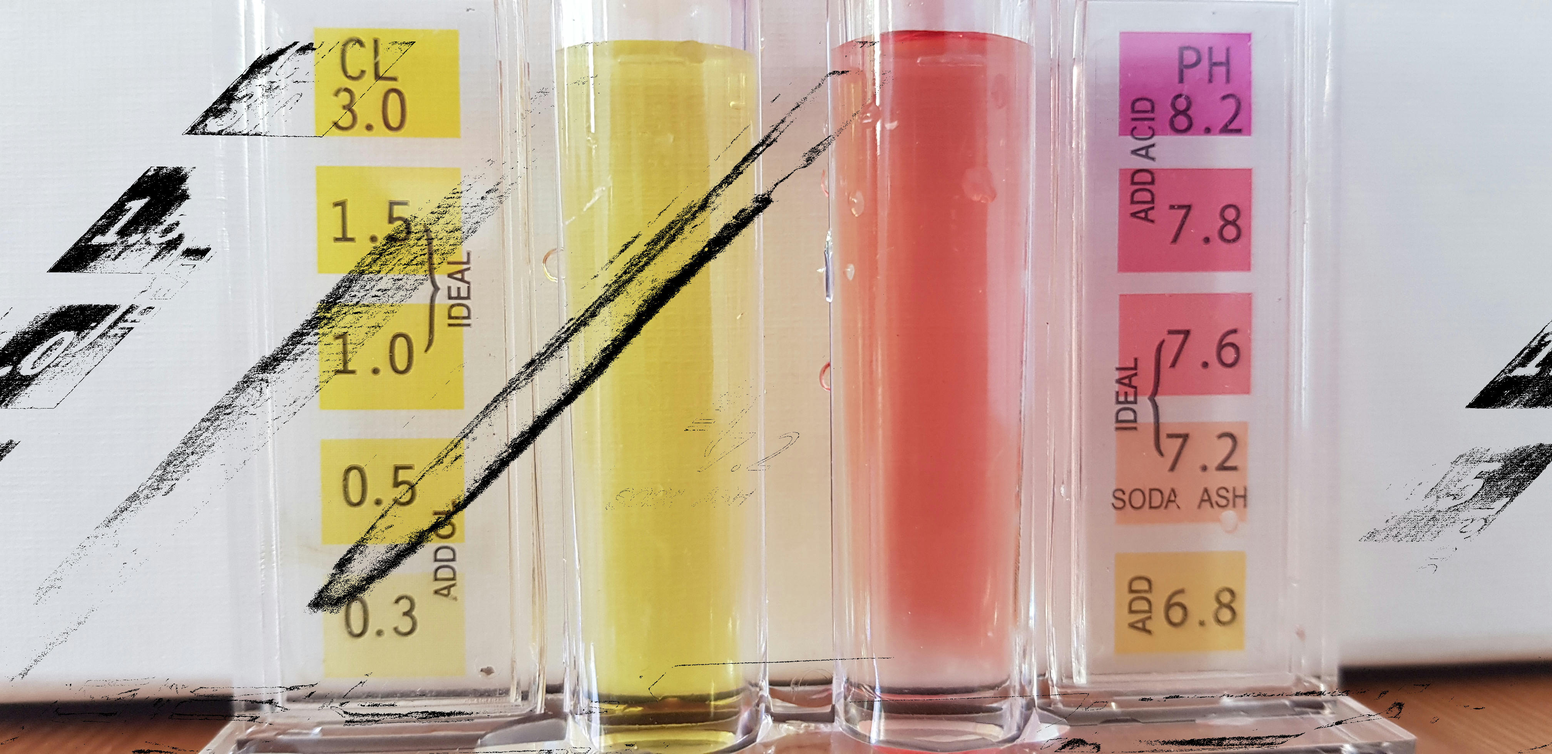
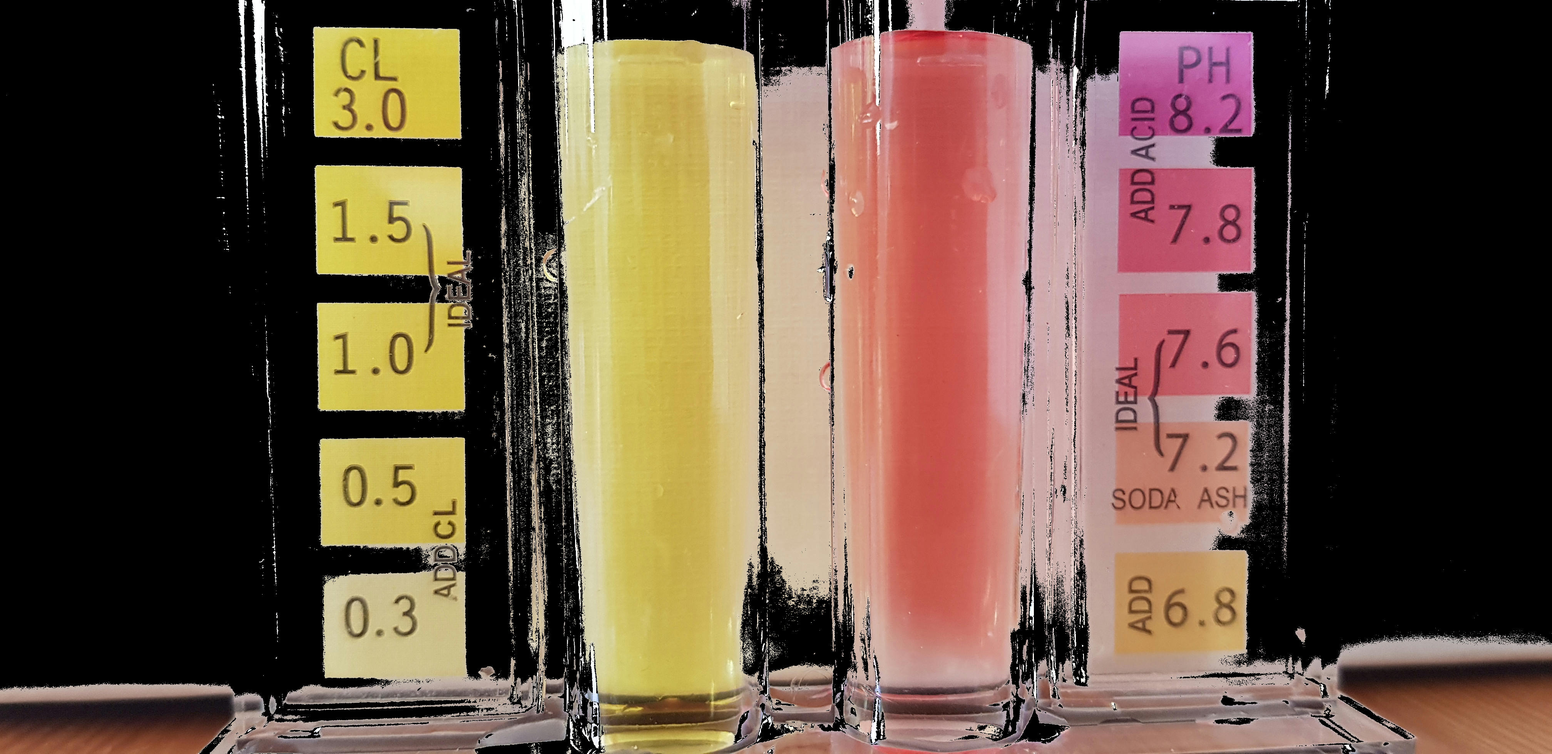
Add a bunch of improvements.

diff --git a/src/main.rs b/src/main.rs
@@ -1,13 +1,13 @@
 use std::cell::RefCell;
-use std::cmp::{max, min};
+use std::cmp::max;
 use std::collections::HashMap;
 use std::rc::Rc;
 
 extern crate raster;
 
-pub const MAX_PIXEL_DIFFERENCE: usize = 7;
-pub const MAX_FIELDS_DIFFERENT: u8 = 2;
-pub const MIN_BLOB_LEN: usize = 100_000;
+pub const MAX_PIXEL_DIFFERENCE: usize = 10;
+pub const MAX_FIELDS_DIFFERENT: u8 = 1;
+pub const MIN_BLOB_SIZE: usize = 100_000;
 
 #[derive(Debug, Clone, Copy, Hash, PartialEq, Eq)]
 pub struct Pixel {
@@ -77,18 +77,18 @@ impl Image {
         let mut pixels: Vec<Pixel> = Vec::new();
         let (mut cur_x, mut cur_y): (i32, i32) = (0, 0);
         for chunk in bytes.chunks(4).into_iter() {
-            if cur_x % src.width == 0 && cur_x != 0 {
-                cur_y += 1;
-                cur_x = 0;
-            } else {
-                cur_x += 1;
-            }
-
             let pos = (cur_x, cur_y);
             if let [r, g, b, _] = chunk {
                 pixels.push(Pixel::new(*r, *g, *b, pos));
             } else {
                 unreachable!("Bad formatted image.");
+            }
+
+            if cur_x % (src.width - 1) == 0 && cur_x != 0 {
+                cur_y += 1;
+                cur_x = 0;
+            } else {
+                cur_x += 1;
             }
         }
 
@@ -107,7 +107,6 @@ impl Image {
                 if pxl.is_similar(pixel) {
                     similar.push(pixel);
                     has_found_similar_pixel = true;
-                    break;
                 }
             }
 
@@ -116,29 +115,27 @@ impl Image {
             }
         }
 
+        let mut filtered: Blob = Blob::new();
+        for blob in blobs.iter() {
+            if blob.1.len() <= MIN_BLOB_SIZE {
+                filtered.push(blob.0);
+            }
+        }
+
+        for pxl in filtered.iter() {
+            blobs.remove(pxl);
+        }
+
         blobs
     }
-}
 
-pub fn filter_blobs(blobs: Blobs) -> Blobs {
-    let mut filtered: Blobs = Blobs::new();
-    for tup in blobs.iter() {
-        let (key, blob) = tup;
-        let pxl = blob[0]; // We only check the first pixel because all the other ones are similar anyways.
-        let luminance = 0.2126 * pxl.r as f64 + 0.7152 * pxl.g as f64 + 0.0722 * pxl.b as f64;
-        if luminance >= 150.0 {
-            continue;
-        }
-
-        if blob.len() >= MIN_BLOB_LEN {
-            filtered.insert(key, blob.clone());
-        }
+    pub fn save(&self, outfile: &str) {
+        let img_ref = self.src.borrow_mut();
+        raster::save(&img_ref, outfile).unwrap();
     }
-
-    filtered
 }
 
-pub fn find_largest_blob(blobs: Blobs) -> Blob {
+pub fn find_largest_blob<'a>(blobs: &'a mut Blobs) -> (&'a Pixel, Vec<&'a Pixel>) {
     let mut biggest_key: &Pixel = &Pixel::new(0, 0, 0, (0, 0));
     let mut biggest_len = 0;
 
@@ -152,60 +149,35 @@ pub fn find_largest_blob(blobs: Blobs) -> Blob {
     }
 
     let blob = blobs
-        .get(biggest_key)
+        .remove_entry(biggest_key)
         .unwrap_or_else(|| {
             panic!("No blobs found.");
         })
         .clone();
-    println!("Biggest blob size: {}", blob.len());
-    // println!("Biggest blob: {:#?}", blobs.get(biggest_key));
+
+    println!("Biggest blob size: {}", blob.1.len());
     blob
 }
 
-#[allow(dead_code)]
-pub fn analyse_blob(blob: Blob) {
-    let mut biggest_x = 0;
-    let mut biggest_y = 0;
-    let mut smallest_x = 10_000_000; // This number needs to be bigger than any possible x
-    let mut smallest_y = 10_000_000;
-
-    for pxl in blob.iter() {
-        biggest_x = max(biggest_x, pxl.pos.0);
-        biggest_y = max(biggest_y, pxl.pos.1);
-        smallest_x = min(smallest_x, pxl.pos.0);
-        smallest_y = min(smallest_y, pxl.pos.1);
-    }
-
-    println!("Biggest x: {}", biggest_x);
-    println!("Biggest y: {}", biggest_y);
-    println!("Smallest x: {}", smallest_x);
-    println!("Smallest y: {}", smallest_y);
-}
-
-pub fn draw_results(img: Image, blob: Blob, outfile: &str) {
+pub fn draw_results(img: Image, blob: Blob) {
     let mut img_ref = img.src.borrow_mut();
     for pxl in blob.iter() {
         img_ref
-            .set_pixel(
-                pxl.pos.0 - 1,
-                pxl.pos.1 - 1,
-                raster::Color::hex("#000000").unwrap(),
-            )
+            .set_pixel(pxl.pos.0, pxl.pos.1, raster::Color::hex("#000000").unwrap())
             .unwrap();
     }
-
-    raster::save(&img_ref, outfile).unwrap();
 }
 
 fn main() {
     println!("Opening image...");
     let img = Image::open(&"sample.jpeg");
     println!("Finding blobs in image...");
-    let blobs = img.find_blobs();
-    let blobs = filter_blobs(blobs);
+    let mut blobs = img.find_blobs();
     println!("Found {} blobs.", blobs.len());
-    let biggest_blob = find_largest_blob(blobs);
-    // analyse_blob(biggest_blob);
-    println!("Drawing over image.");
-    draw_results(img.clone(), biggest_blob, &"out.jpeg");
+    for _ in 0..15 {
+        let largest = find_largest_blob(&mut blobs);
+        draw_results(img.clone(), largest.1);
+    }
+
+    img.save(&"out.jpeg");
 }
